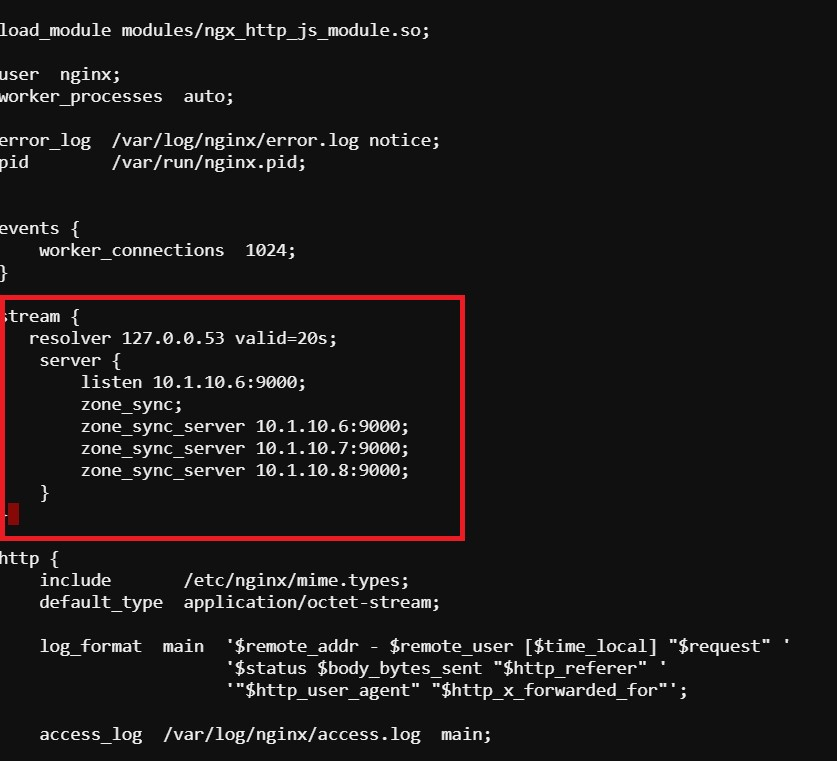
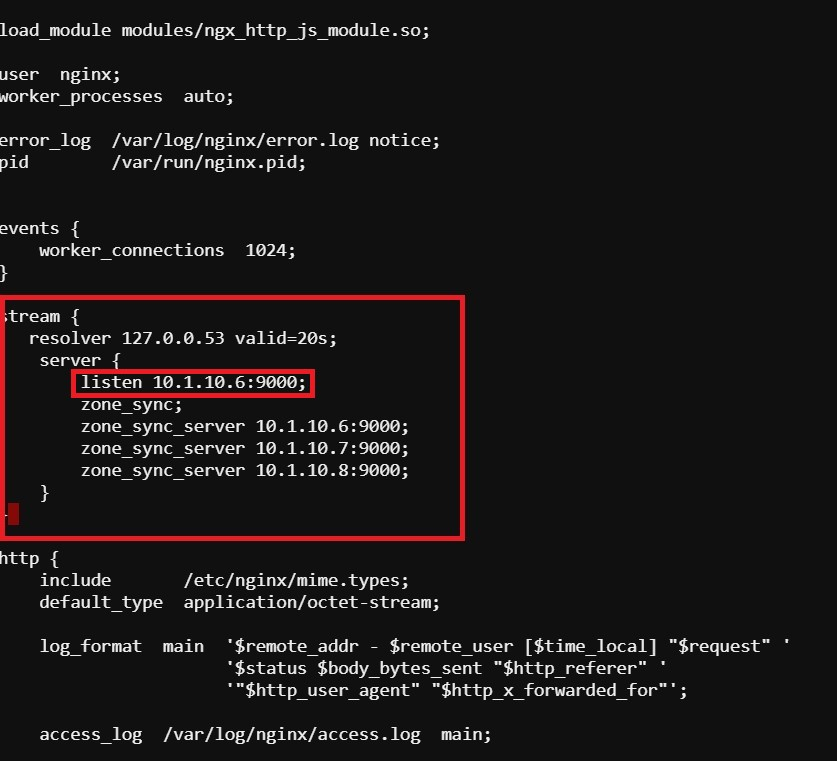
Fixed a bad block

Changed region(s): [[0.0621, 0.4836, 0.4038, 0.544]]

diff --git a/docs/class9/module1/module1.rst b/docs/class9/module1/module1.rst
@@ -298,7 +298,7 @@ Then scroll down further and add the keyword "sync" to the first three 'keyval_z
 
 .. note:: 
 
-   Please leave the NGINX 1 server webshell connection open!:
+   Please leave the NGINX 1 server webshell connection open!
 
 Testing the config
 ==================
@@ -429,7 +429,7 @@ Open the file for editing in nano:
 
 .. image:: ../images/instance-group-3.jpg
 
-In order to make sure our new cluster is performant, we need to sync the authentication tokens between the instances.
+**In order to make sure our new cluster is performant, we need to sync the authentication tokens between the instances.**
 
 5. First, open nginx.conf on -all three- NGINX servers using the command below.
 
@@ -437,8 +437,12 @@ In order to make sure our new cluster is performant, we need to sync the authent
 	
    nano /etc/nginx/nginx.conf
 
-6. Then add the 'stream' block below to the configuration, just before the 'http' block and save the file (Ctrl-X, y, enter).
+6. Then add the 'stream' block below to the configuration, just before the 'http' block.
 
+.. attention::
+
+   **The server 'listen' directive needs to match the IP address of each server.  The example below shows 10.1.10.6, which is correct for NGINX 1.  For NGINX 2, change this to 10.1.10.7 and for NGINX 3, change it to 10.1.10.8.** 
+   
 .. code:: shell
 	
    stream {
@@ -449,12 +453,14 @@ In order to make sure our new cluster is performant, we need to sync the authent
         zone_sync_server 10.1.10.6:9000;
         zone_sync_server 10.1.10.7:9000;
         zone_sync_server 10.1.10.8:9000;
-    }
-}
+      }
+   }
 
 **screenshot of output**
 
 .. image:: ../images/stream_block.jpg
+
+**save and close file**
 
 7. Reload NGINX on -all three- servers.
 
